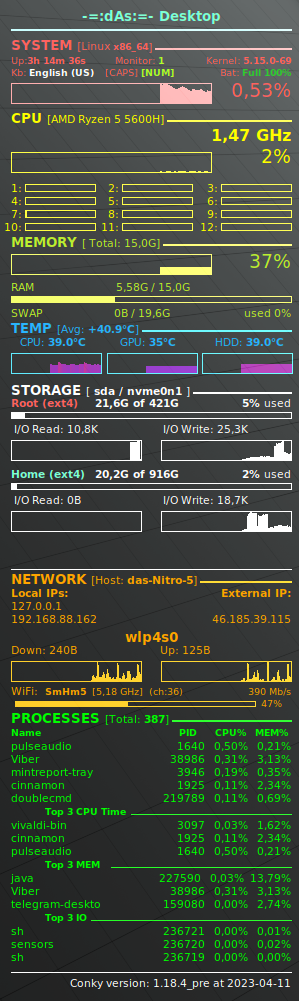
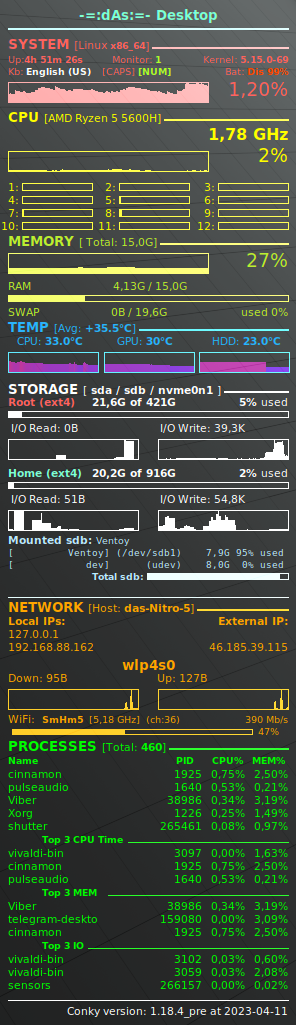
Updated screenshot. README.md update.

diff --git a/README.md b/README.md
@@ -9,7 +9,7 @@
 - overall **CPU** usage and frequency and separate Cores usage
 - total **RAM** and **SWAP** usage
 - temperature of **CPU, GPU, HDD** with **gradient** graph - ❗ it works fine with **1.18.1_pre version**, old versions may not show gradient
-- storage usage, **I/O read/write**
+- storage usage, **I/O read/write**, upto 2 mounted disks shows
 - network statistics for **Wired** and/or **Wireless** with Down/Up info and current **Wi-Fi** info
 - overall **Top** processes and separate using **CPU/MEM/IO**
 ### 🖼 Screenshot
